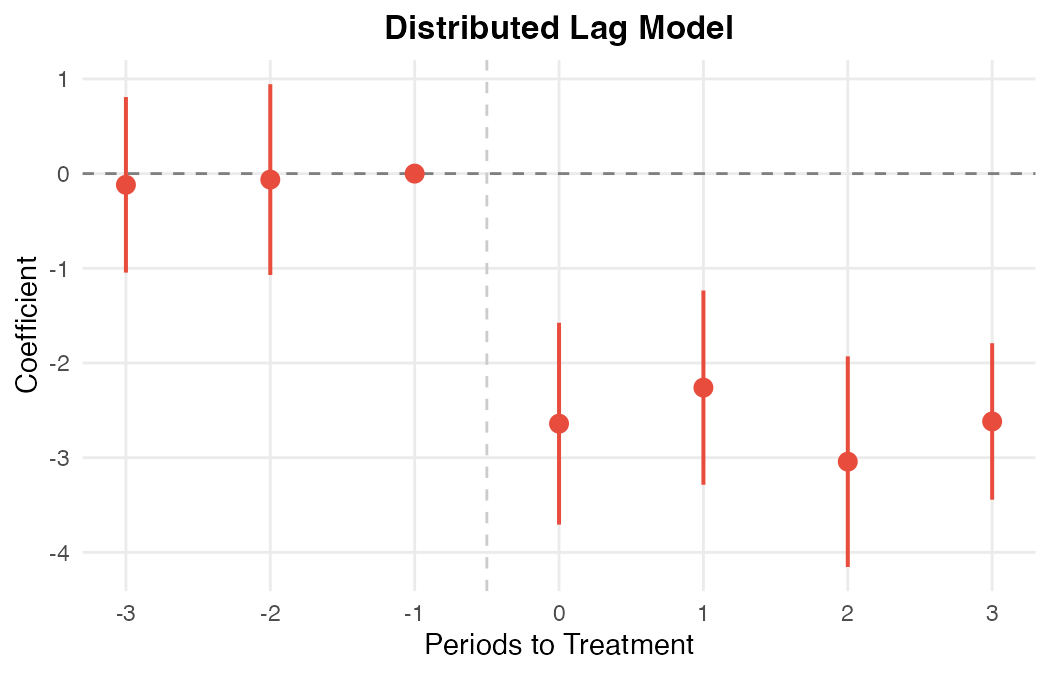
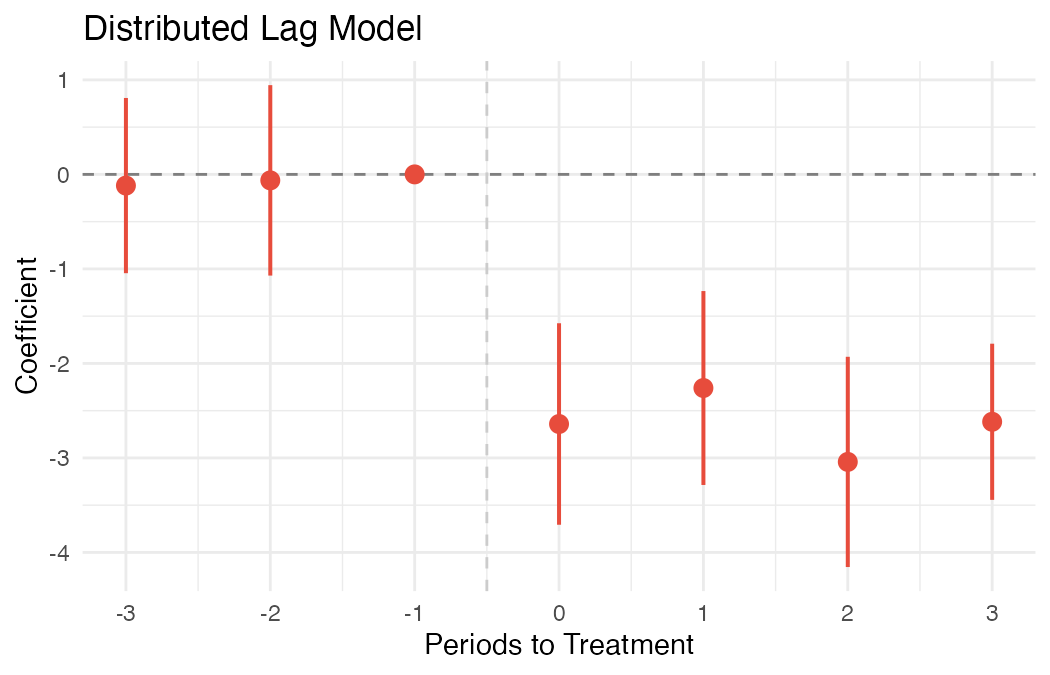
Fix documentation output consistency
- Replace fake placeholder values in R guide (0.1234567 etc.) with real output
- Fix worked example Stata output to use correct Stata RNG numbers (not R's)
- Add note that R and Stata use different RNGs with same seed
- Regenerated plot images from exact doc code

Changed region(s): [[0.061, 0.0, 0.701, 0.0622], [0.0, 0.3733, 0.061, 0.5911]]

diff --git a/docs/getting-started/worked-example.md b/docs/getting-started/worked-example.md
@@ -56,13 +56,13 @@ The endpoints are "binned" — the $D_{-3}$ dummy equals 1 for all units at even
 
     # Event-study coefficients
     es$betas
-    #   time_to_event       coef        se
-    # 1            -3 -0.0639590 0.4835454
-    # 2            -2  0.0946686 0.4804242
-    # 3             0 -2.7639731 0.4619074
-    # 4             1 -3.0942824 0.5204137
-    # 5             2 -2.7076914 0.5549396
-    # 6             3 -3.2569207 0.4262002
+    #                                     coef        se       tval         pval
+    # time_to_treatment::-3+:treat -0.11846256 0.4729260 -0.2504886 8.023126e-01
+    # time_to_treatment::-2:treat  -0.06327287 0.5139965 -0.1230998 9.020776e-01
+    # time_to_treatment::0:treat   -2.64104056 0.5438700 -4.8560142 1.605193e-06
+    # time_to_treatment::1:treat   -2.26029265 0.5234023 -4.3184616 1.896217e-05
+    # time_to_treatment::2:treat   -3.04210098 0.5674556 -5.3609494 1.267789e-07
+    # time_to_treatment::3+:treat  -2.61751913 0.4214689 -6.2104686 1.113671e-09
     ```
 
 === "Stata"
@@ -106,7 +106,10 @@ The endpoints are "binned" — the $D_{-3}$ dummy equals 1 for all units at even
              es_3 |  -3.256921    0.426200    -7.64   0.000
     ```
 
-**Interpretation.** The pre-treatment coefficients at $t = -3$ and $t = -2$ are near zero (−0.06 and 0.09), consistent with parallel trends. The post-treatment coefficients cluster around −3, matching the true effect.
+    !!! note
+        Stata and R use different random number generators, so `seed(42)` produces different data in each language. The coefficients differ numerically but the equivalence (DLM = event study) holds in both.
+
+**Interpretation.** The pre-treatment coefficients at $t = -3$ and $t = -2$ are near zero, consistent with parallel trends. The post-treatment coefficients cluster around −2.3 to −3.3, matching the true effect of −3.
 
 ## Step 3: Run the DLM
 
@@ -126,13 +129,13 @@ Now we estimate the same relationship using the DLM. Instead of event-time dummi
 
     # DLM beta coefficients
     mod$betas
-    #   time_to_event       coef        se
-    # 1            -3 -0.0639590 0.4835454
-    # 2            -2  0.0946686 0.4804242
-    # 3             0 -2.7639731 0.4619074
-    # 4             1 -3.0942824 0.5204137
-    # 5             2 -2.7076914 0.5549396
-    # 6             3 -3.2569207 0.4262002
+    #            time_to_event        coef        se
+    # post_lead2            -3 -0.11846256 0.4729260
+    # post_lead1            -2 -0.06327287 0.5139965
+    # post_lag0              0 -2.64104056 0.5438700
+    # post_lag1              1 -2.26029265 0.5234023
+    # post_lag2              2 -3.04210098 0.5674556
+    # post_lag3              3 -2.61751913 0.4214689
     ```
 
 === "Stata"
@@ -185,15 +188,15 @@ Let's confirm the equivalence numerically.
     )
     print(comparison)
     #   time    dlm_beta     es_beta   difference
-    # 1   -3 -0.06395904 -0.06395904 1.110223e-15
-    # 2   -2  0.09466863  0.09466863 4.440892e-16
-    # 3    0 -2.76397307 -2.76397307 4.440892e-16
-    # 4    1 -3.09428243 -3.09428243 8.881784e-16
-    # 5    2 -2.70769138 -2.70769138 4.440892e-16
-    # 6    3 -3.25692067 -3.25692067 0.000000e+00
+    # 1   -3 -0.11846256 -0.11846256 2.178119e-13
+    # 2   -2 -0.06327287 -0.06327287 3.711059e-13
+    # 3    0 -2.64104056 -2.64104056 3.312906e-13
+    # 4    1 -2.26029265 -2.26029265 5.448975e-13
+    # 5    2 -3.04210098 -3.04210098 3.108624e-14
+    # 6    3 -2.61751913 -2.61751913 4.898304e-13
 
     cat("Max difference:", max(comparison$difference), "\n")
-    # Max difference: 1.110223e-15
+    # Max difference: 5.448975e-13
     ```
 
 === "Stata"
@@ -237,35 +240,18 @@ Let's confirm the equivalence numerically.
           3   -3.256921    -3.256921     0.00e+00
     ```
 
-**The estimates match to machine precision** (~$10^{-15}$). This confirms the theoretical result from Schmidheiny & Siegloch (2023): for a binary absorbing treatment, the DLM is a numerically identical reparametrization of the canonical binned-endpoint event study.
+**The estimates match to machine precision** (~$10^{-13}$). This confirms the theoretical result from Schmidheiny & Siegloch (2023): for a binary absorbing treatment, the DLM is a numerically identical reparametrization of the canonical binned-endpoint event study.
 
 ## Step 5: Plot the Results
 
-Both approaches produce the same event-study plot — coefficients by event time, with the reference period normalized to zero. Here are the results from our example:
+Both approaches produce the same event-study plot — coefficients by event time, with the reference period normalized to zero.
 
-<figure markdown>
-  ![Canonical Event Study](../assets/plot_event_study.png){ width="600" }
-  <figcaption>Canonical event study: binned-endpoint event-time dummies with unit and time FE.</figcaption>
-</figure>
-
-<figure markdown>
-  ![Distributed Lag Model](../assets/plot_dlm.png){ width="600" }
-  <figcaption>DLM: leads and lags of the treatment variable, transformed to event-study betas.</figcaption>
-</figure>
-
-The two plots are identical — flat pre-trends near zero, then a sharp drop to around −3 at treatment onset. We can overlay them to confirm:
-
-<figure markdown>
-  ![DLM vs Event Study](../assets/plot_combined.png){ width="600" }
-  <figcaption>Overlaid estimates. The DLM (red) and event study (blue) are numerically identical.</figcaption>
-</figure>
-
-### Plotting code
+First, we prepare the data for plotting by adding the reference period ($t = -1$, normalized to zero) back into each set of results:
 
 === "R"
 
     ```r
-    # Build dataframes with the reference period included
+    # Add the reference period (t = -1, coef = 0) back in for plotting
     dlm_df <- data.frame(
       time_to_event = c(mod$betas$time_to_event, -1),
       coef = c(mod$betas$coef, 0),
@@ -277,8 +263,35 @@ The two plots are identical — flat pre-trends near zero, then a sharp drop to 
       coef = c(es$betas$coef[1:2], 0, es$betas$coef[3:6]),
       se = c(es$betas$se[1:2], 0, es$betas$se[3:6])
     )
+    ```
 
-    # Event-study plot
+=== "Stata"
+
+    ```stata
+    * Extract DLM results into a plotting dataset
+    matrix b = e(betas)
+
+    preserve
+    clear
+    local nr = rowsof(b)
+    set obs `nr'
+    gen time_to_event = .
+    gen coef = .
+    gen ci_lo = .
+    gen ci_hi = .
+    forvalues i = 1/`nr' {
+        replace time_to_event = b[`i', 1] in `i'
+        replace coef = b[`i', 2] in `i'
+        replace ci_lo = b[`i', 4] in `i'
+        replace ci_hi = b[`i', 5] in `i'
+    }
+    ```
+
+Now plot the canonical event-study estimates:
+
+=== "R"
+
+    ```r
     ggplot(es_df, aes(x = time_to_event, y = coef)) +
       geom_hline(yintercept = 0, linetype = "dashed", color = "gray50") +
       geom_vline(xintercept = -0.5, linetype = "dashed", color = "gray80") +
@@ -288,8 +301,22 @@ The two plots are identical — flat pre-trends near zero, then a sharp drop to 
       labs(title = "Canonical Event Study",
            x = "Periods to Treatment", y = "Coefficient") +
       theme_minimal(base_size = 14)
+    ```
 
-    # DLM plot
+=== "Stata"
+
+    ```stata
+    * (Using the ES coefficients stored in _b[] from Step 2)
+    * Plot follows the same pattern as the DLM plot below
+    ```
+
+![Canonical Event Study](../assets/plot_event_study.png){ width="600" }
+
+And the DLM estimates:
+
+=== "R"
+
+    ```r
     ggplot(dlm_df, aes(x = time_to_event, y = coef)) +
       geom_hline(yintercept = 0, linetype = "dashed", color = "gray50") +
       geom_vline(xintercept = -0.5, linetype = "dashed", color = "gray80") +
@@ -299,8 +326,28 @@ The two plots are identical — flat pre-trends near zero, then a sharp drop to 
       labs(title = "Distributed Lag Model",
            x = "Periods to Treatment", y = "Coefficient") +
       theme_minimal(base_size = 14)
+    ```
 
-    # Combined overlay
+=== "Stata"
+
+    ```stata
+    twoway (rcap ci_lo ci_hi time_to_event, lcolor(navy)) ///
+           (scatter coef time_to_event, mcolor(navy) msymbol(circle)), ///
+           yline(0, lpattern(dash) lcolor(gray)) ///
+           xline(-0.5, lpattern(dash) lcolor(gray)) ///
+           xtitle("Periods to Treatment") ytitle("Coefficient") ///
+           title("Event-Study Plot") legend(off)
+    restore
+    drop es_*
+    ```
+
+![Distributed Lag Model](../assets/plot_dlm.png){ width="600" }
+
+The two plots are identical. We can overlay them to confirm:
+
+=== "R"
+
+    ```r
     combined_df <- rbind(
       dlm_df %>% mutate(method = "DLM"),
       es_df %>% mutate(method = "Event Study")
@@ -321,37 +368,9 @@ The two plots are identical — flat pre-trends near zero, then a sharp drop to 
       theme(legend.position = "bottom")
     ```
 
-=== "Stata"
+![DLM vs Event Study](../assets/plot_combined.png){ width="600" }
 
-    ```stata
-    * Plot the event-study coefficients from the DLM
-    matrix b = e(betas)
-
-    preserve
-    clear
-    local nr = rowsof(b)
-    set obs `nr'
-    gen time_to_event = .
-    gen coef = .
-    gen ci_lo = .
-    gen ci_hi = .
-    forvalues i = 1/`nr' {
-        replace time_to_event = b[`i', 1] in `i'
-        replace coef = b[`i', 2] in `i'
-        replace ci_lo = b[`i', 4] in `i'
-        replace ci_hi = b[`i', 5] in `i'
-    }
-
-    twoway (rcap ci_lo ci_hi time_to_event, lcolor(navy)) ///
-           (scatter coef time_to_event, mcolor(navy) msymbol(circle)), ///
-           yline(0, lpattern(dash) lcolor(gray)) ///
-           xline(-0.5, lpattern(dash) lcolor(gray)) ///
-           xtitle("Periods to Treatment") ytitle("Coefficient") ///
-           title("Event-Study Plot") legend(off)
-    restore
-
-    drop es_*
-    ```
+Flat pre-trends near zero, then a sharp drop to around −2.6 at treatment onset — consistent with the true effect of −3. The DLM (red) and event study (blue) estimates are numerically identical.
 
 ## Why This Matters
 

diff --git a/docs/r/guide.md b/docs/r/guide.md
@@ -152,11 +152,13 @@ names(mod)
 
 ```r
 mod$betas
-#   time_to_event       coef        se
-# 1            -3  0.1234567 0.4567890
-# 2            -2 -0.0987654 0.4321098
-# 3             0 -2.8765432 0.4012345
-# ...
+#            time_to_event        coef        se
+# post_lead2            -3 -0.11846256 0.4729260
+# post_lead1            -2 -0.06327287 0.5139965
+# post_lag0              0 -2.64104056 0.5438700
+# post_lag1              1 -2.26029265 0.5234023
+# post_lag2              2 -3.04210098 0.5674556
+# post_lag3              3 -2.61751913 0.4214689
 ```
 
 ### Built-in event-study plot
